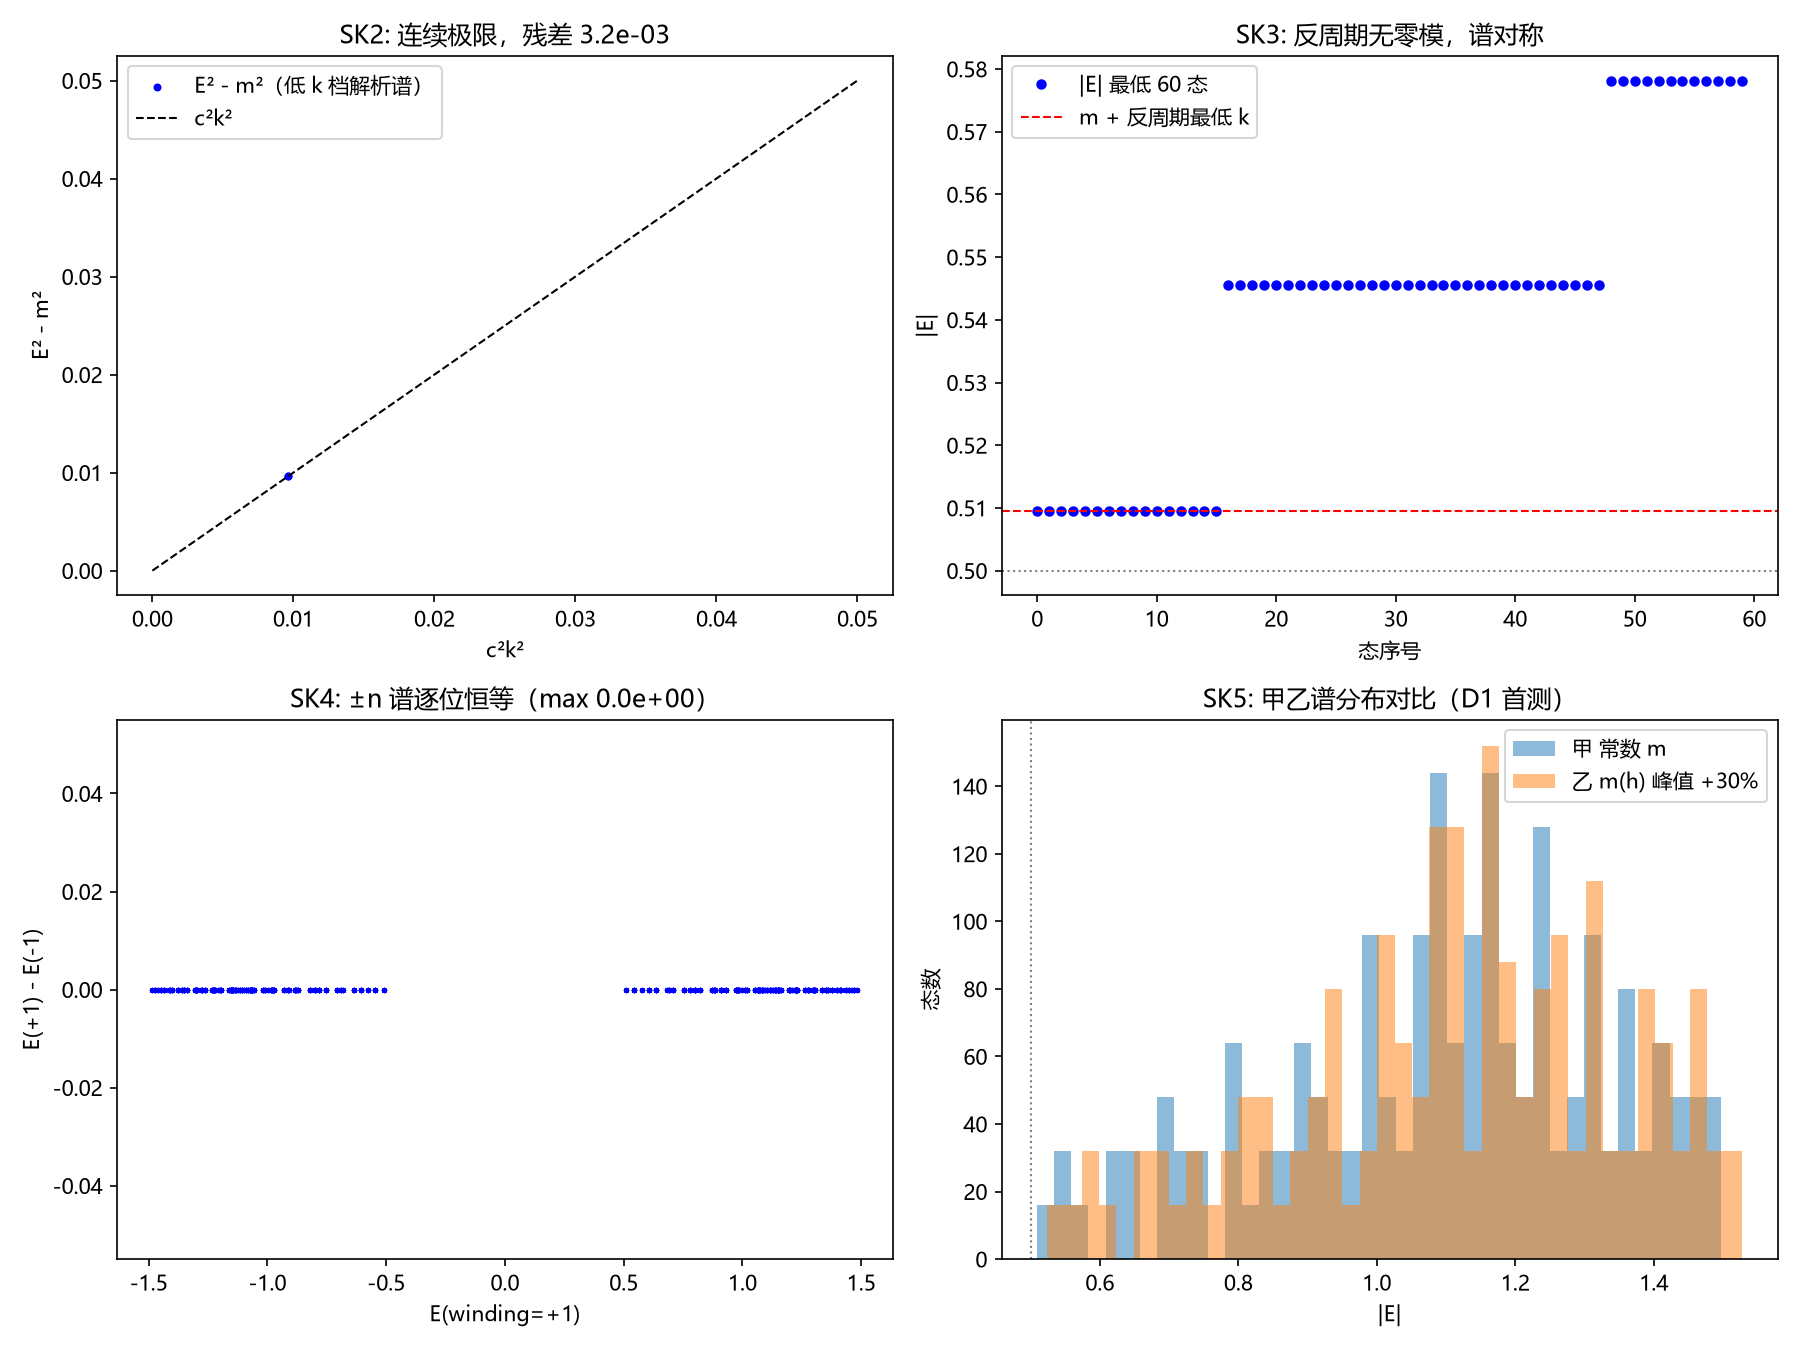
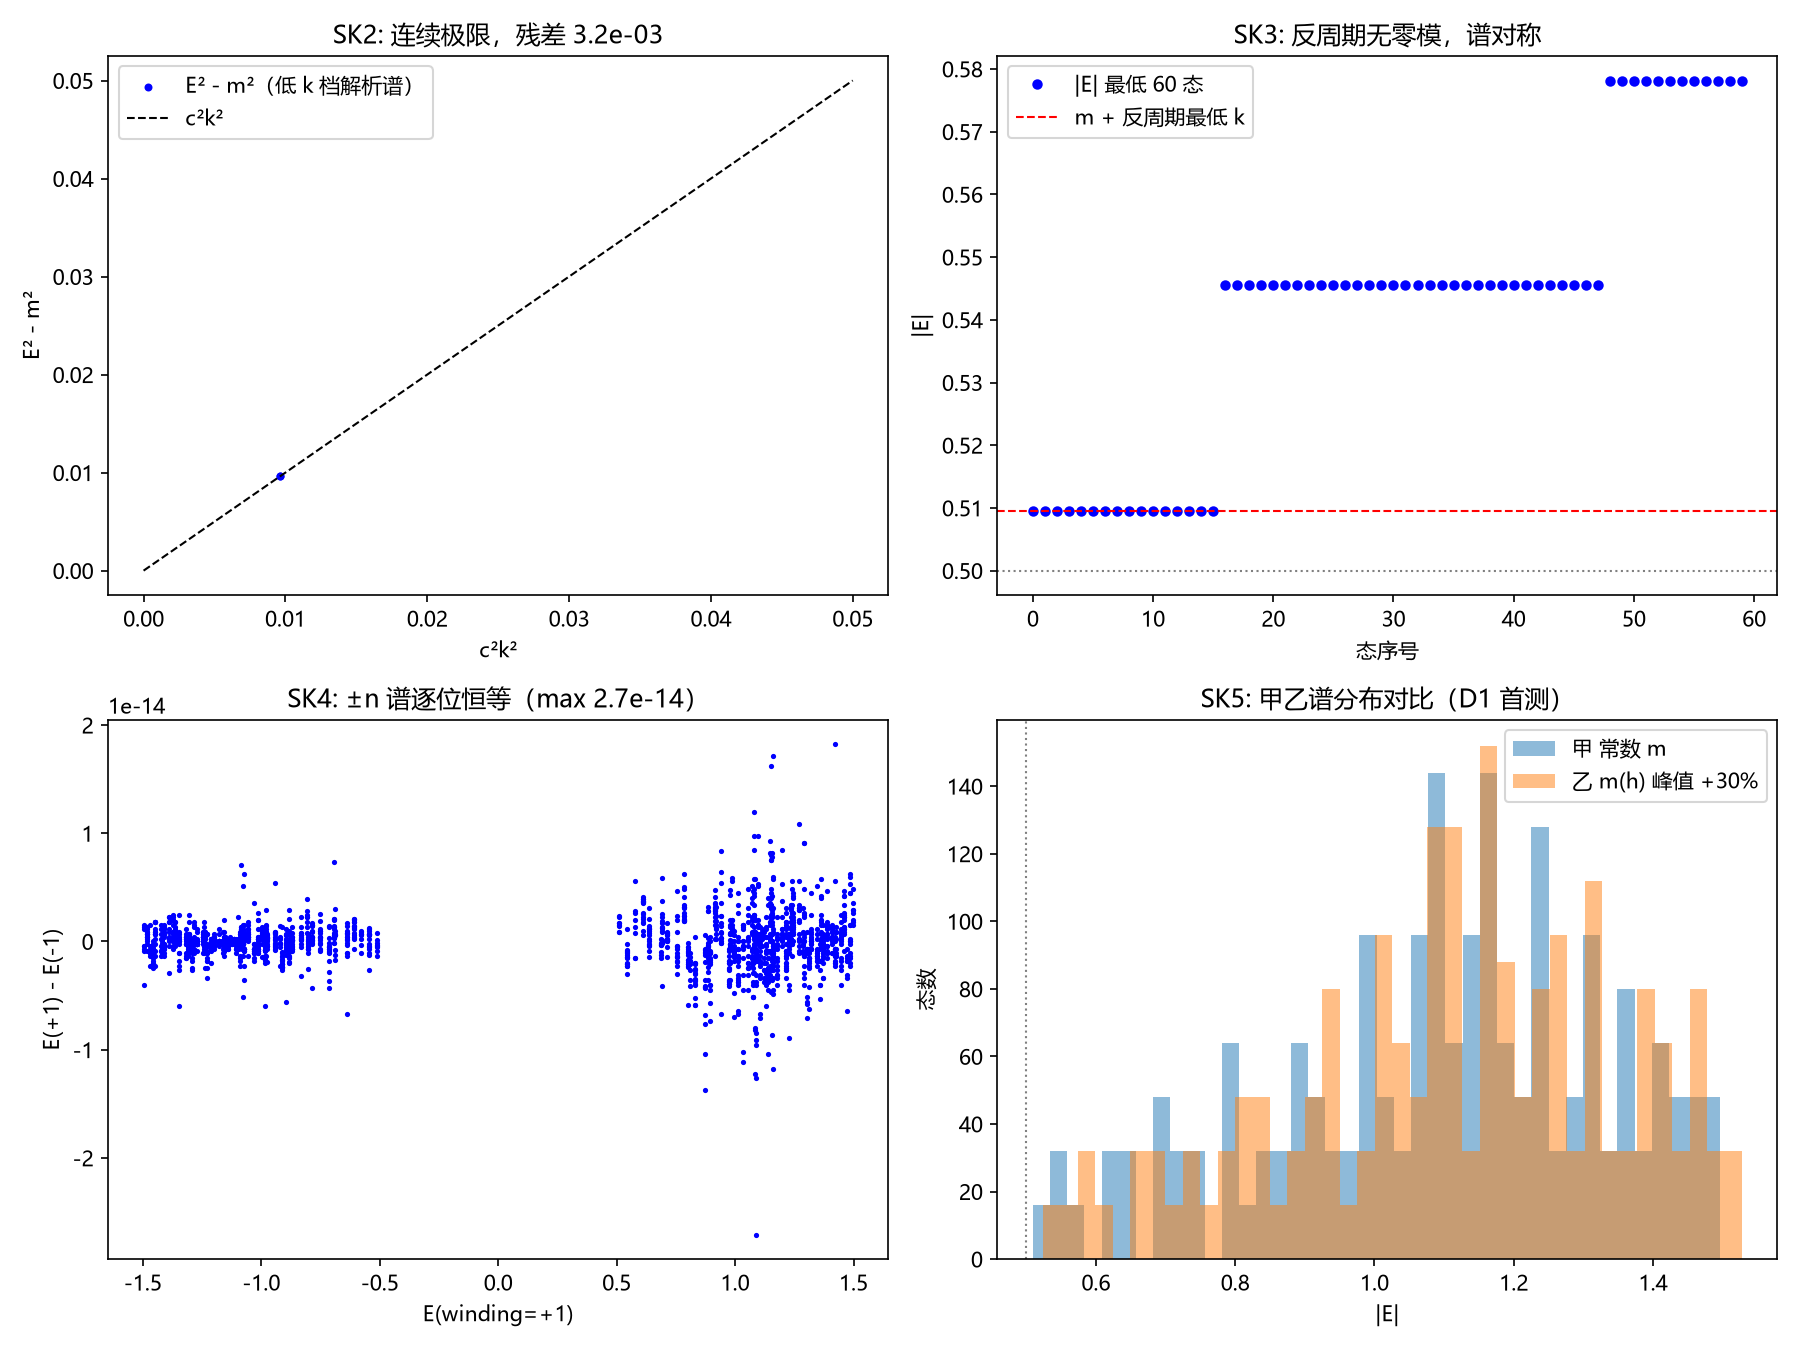
第 489 号骨架脚本勘误（第 660 号复核发现）：规范耦合相位原赋给实数数组致虚部静默丢弃、差分取 S^T 而非 S^dagger，改为复数数组与 S^dagger 使 -iD 严格厄米；重跑判据 7/7 不变，SK4 谱差 0 改 2.71e-14（数值精度级），结论不变；图同步重出

diff --git a/验证脚本/minimal_verification_dirac_skeleton.py b/验证脚本/minimal_verification_dirac_skeleton.py
@@ -38,8 +38,8 @@ def report(tag, measured, expected, ok):
 
 def shift_theta(antiperiodic=True, gauge=0.0):
     """θ 方向前向移位算符（含反周期接缝负号与绕数规范相位）。"""
-    ph = np.exp(-1j * gauge) if gauge else 1.0
-    S = np.zeros((N_TH, N_TH))
+    ph = np.exp(-1j * gauge)
+    S = np.zeros((N_TH, N_TH), dtype=complex)
     for i in range(N_TH):
         j = (i + 1) % N_TH
         S[i, j] = ph * (-1.0 if (antiperiodic and i == N_TH - 1) else 1.0)
@@ -54,7 +54,7 @@ def shift_h():
 def build_H(m_field=None, winding=0.0):
     """H = kron(σx, c_θ D_θ) + kron(σz, c_h D_h) + kron(m σy, I)。"""
     Sth = shift_theta(gauge=2 * np.pi * winding / N_TH)
-    D_th = (Sth - Sth.T) / 2.0
+    D_th = (Sth - Sth.conj().T) / 2.0
     Sh = shift_h()
     D_h = (Sh - Sh.T) / 2.0
     m = np.full(N_H, M0) if m_field is None else m_field

diff --git a/验证脚本/注记-电子算符Dirac骨架（第489条）：S¹×ℝ反周期谱结构、D2连续极限与D1甲乙首测.md b/验证脚本/注记-电子算符Dirac骨架（第489条）：S¹×ℝ反周期谱结构、D2连续极限与D1甲乙首测.md
@@ -75,3 +75,4 @@ $$H = \sigma_x \otimes \bigl(-i\,c_\theta D_\theta\bigr) + \sigma_z \otimes \big
     - D2 连续极限残差与 $\sin$ 展开预算逐位对齐；D4 镜像式（$\pm n$ 谱恒等）获得
     - D1 甲乙首测：形变致质量增大属反势阱方向，无束缚态产生
     - 过程记录四条教训（r-string 字面换行、动量算符 $-i$、Kronecker 维数、判据对齐）
+    - **2026-10-16 勘误（第 660 号复核发现）**：规范耦合相位 $e^{-\mathrm{i}\,gauge}$ 原赋给实数数组，虚部被静默丢弃（ComplexWarning），差分算符随之取 $S^{\mathsf T}$ 而非 $S^\dagger$；改为复数数组与 $S^\dagger$ 后 $-\mathrm{i}D_\theta$ 严格厄米。重跑判据 SK1 至 SK5 仍 7/7 通过，SK4 的 $\pm w$ 谱差由 $0$ 变为 $2.71\times10^{-14}$（数值精度级），结论不变
